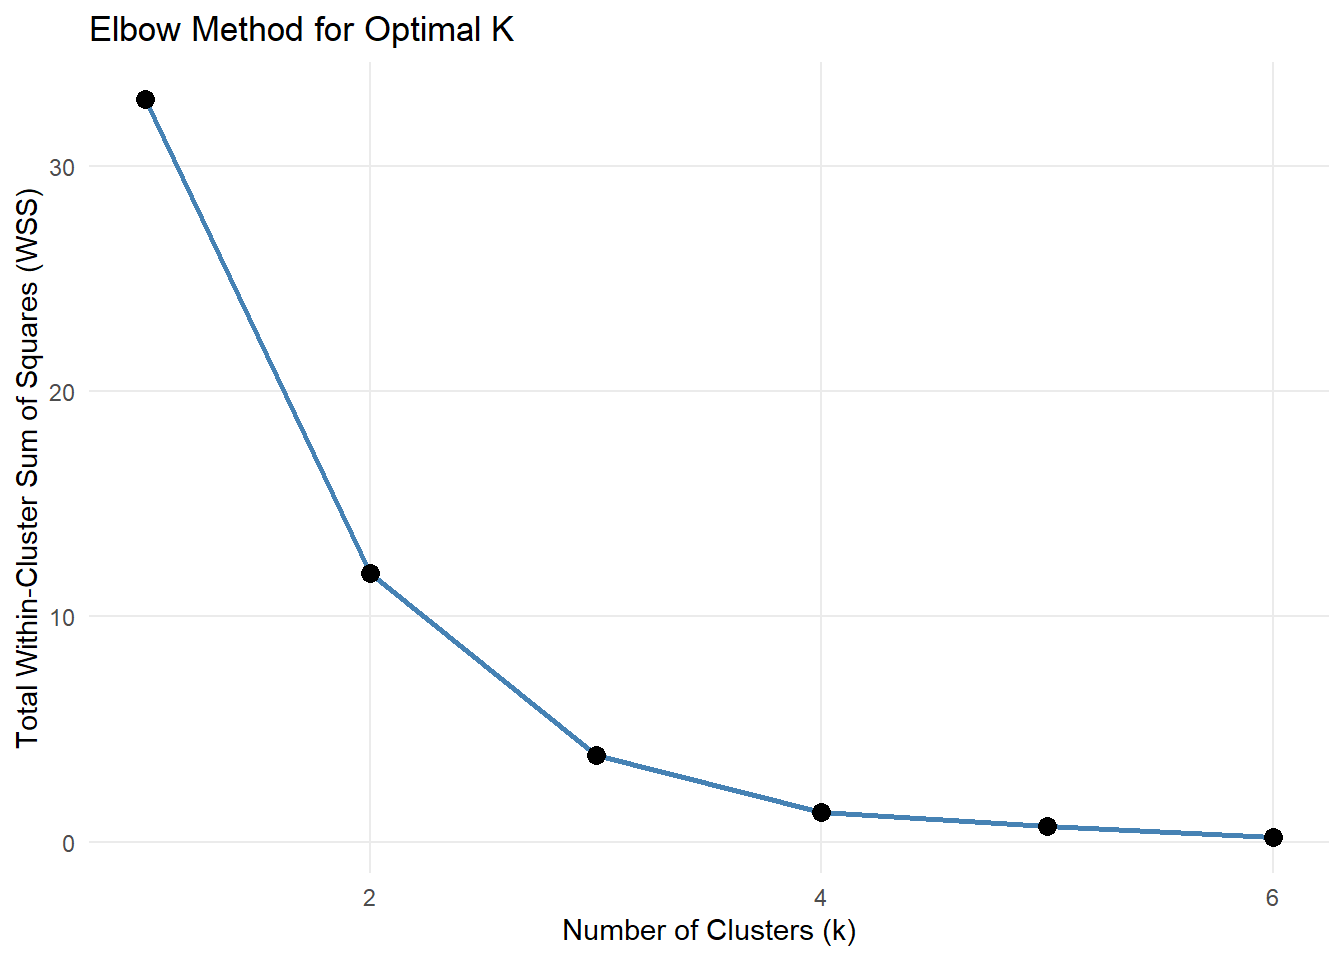
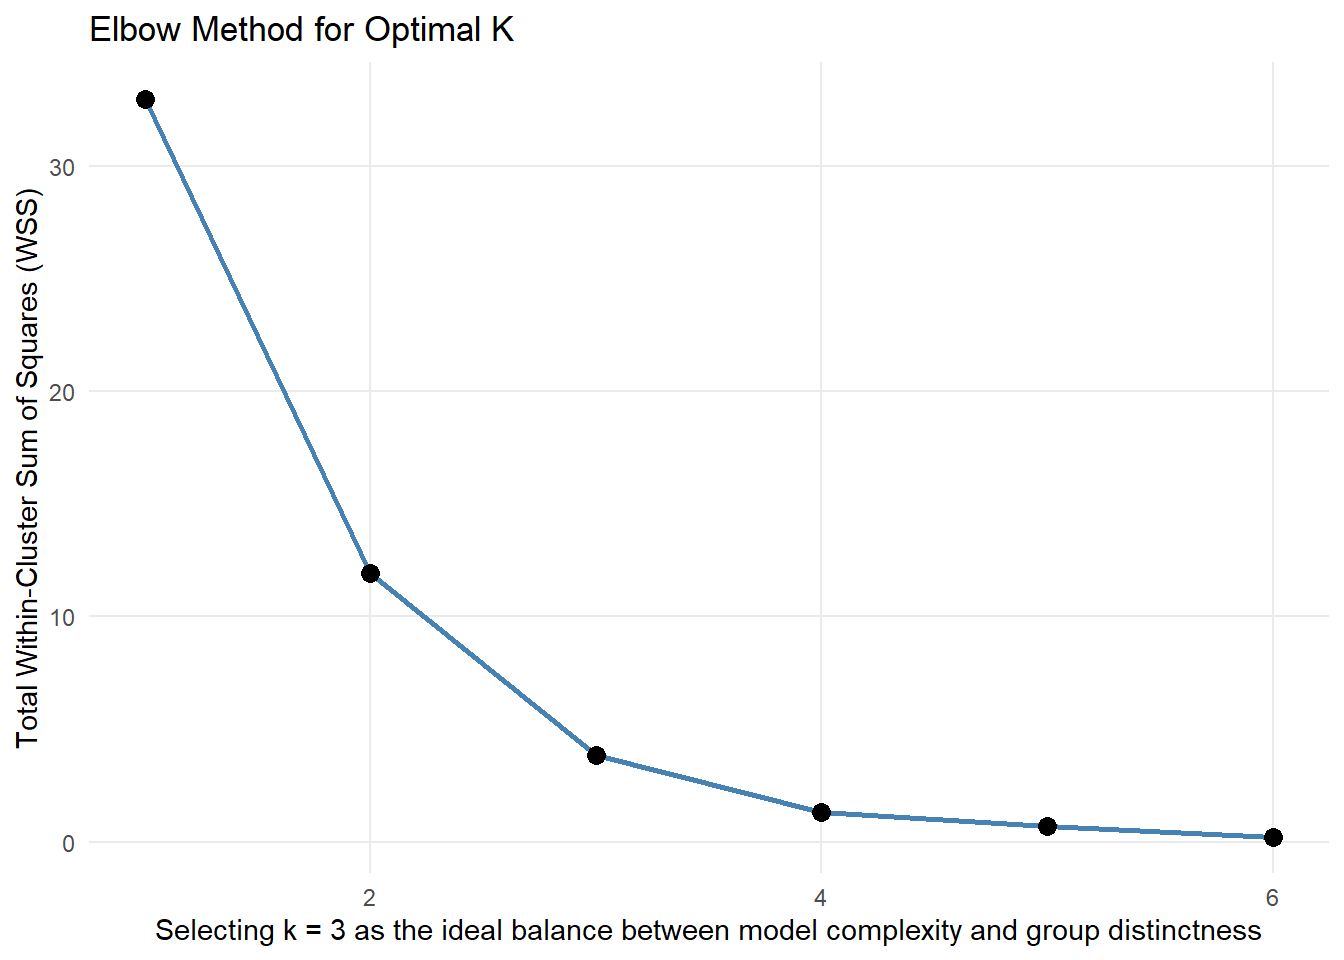
updated fig-caps

Changed region(s): [[0.25, 0.9375, 0.9375, 1.0], [0.125, 0.9375, 0.2188, 1.0]]

diff --git a/docs/index.html b/docs/index.html
@@ -568,7 +568,7 @@ The final merged dataset consists of <strong>132 observations</strong> across <s
 <span id="cb12-3"><a href="#cb12-3" aria-hidden="true" tabindex="-1"></a>  <span class="fu">mutate</span>(<span class="at">inflation =</span> inflation<span class="sc">/</span><span class="dv">100</span>) <span class="sc">|&gt;</span> </span>
 <span id="cb12-4"><a href="#cb12-4" aria-hidden="true" tabindex="-1"></a>  <span class="fu">ggplot</span>(<span class="fu">aes</span>(<span class="at">x =</span> inflation)) <span class="sc">+</span> </span>
 <span id="cb12-5"><a href="#cb12-5" aria-hidden="true" tabindex="-1"></a>  <span class="fu">geom_histogram</span>(<span class="at">binwidth =</span> <span class="fl">0.01</span>, <span class="at">fill =</span> <span class="st">"gray60"</span>, <span class="at">alpha =</span> <span class="fl">0.8</span>) <span class="sc">+</span> </span>
-<span id="cb12-6"><a href="#cb12-6" aria-hidden="true" tabindex="-1"></a>  <span class="fu">geom_vline</span>(<span class="at">xintercept =</span> <span class="fl">0.0165</span>, <span class="at">linetype =</span> <span class="st">"dashed"</span>, <span class="at">color =</span> <span class="st">"gray40"</span>) <span class="sc">+</span> </span>
+<span id="cb12-6"><a href="#cb12-6" aria-hidden="true" tabindex="-1"></a>  <span class="fu">geom_vline</span>(<span class="at">xintercept =</span> global_rate<span class="sc">/</span><span class="dv">100</span>, <span class="at">linetype =</span> <span class="st">"dashed"</span>, <span class="at">color =</span> <span class="st">"gray40"</span>) <span class="sc">+</span> </span>
 <span id="cb12-7"><a href="#cb12-7" aria-hidden="true" tabindex="-1"></a>  <span class="fu">annotate</span>(</span>
 <span id="cb12-8"><a href="#cb12-8" aria-hidden="true" tabindex="-1"></a>    <span class="st">"text"</span>, </span>
 <span id="cb12-9"><a href="#cb12-9" aria-hidden="true" tabindex="-1"></a>    <span class="at">x =</span> <span class="dv">0</span>, </span>
@@ -584,17 +584,18 @@ The final merged dataset consists of <strong>132 observations</strong> across <s
 <span id="cb12-19"><a href="#cb12-19" aria-hidden="true" tabindex="-1"></a>  ) <span class="sc">+</span></span>
 <span id="cb12-20"><a href="#cb12-20" aria-hidden="true" tabindex="-1"></a>  <span class="fu">labs</span>(</span>
 <span id="cb12-21"><a href="#cb12-21" aria-hidden="true" tabindex="-1"></a>    <span class="at">title =</span> <span class="st">"Distribution of Annual Inflation Rates"</span>,</span>
-<span id="cb12-22"><a href="#cb12-22" aria-hidden="true" tabindex="-1"></a>    <span class="at">x =</span> <span class="st">"Inflation Percentage"</span>,</span>
-<span id="cb12-23"><a href="#cb12-23" aria-hidden="true" tabindex="-1"></a>    <span class="at">y =</span> <span class="st">"Frequency"</span></span>
-<span id="cb12-24"><a href="#cb12-24" aria-hidden="true" tabindex="-1"></a>  )<span class="sc">+</span></span>
-<span id="cb12-25"><a href="#cb12-25" aria-hidden="true" tabindex="-1"></a>  <span class="fu">theme_minimal</span>() <span class="sc">+</span></span>
-<span id="cb12-26"><a href="#cb12-26" aria-hidden="true" tabindex="-1"></a>  <span class="fu">theme</span>(<span class="at">panel.grid.minor =</span> <span class="fu">element_blank</span>()) </span></code></pre></div><button title="Copy to Clipboard" class="code-copy-button"><i class="bi"></i></button></div>
+<span id="cb12-22"><a href="#cb12-22" aria-hidden="true" tabindex="-1"></a>    <span class="at">subtitle =</span> <span class="st">"Most sectors near the 1.65% average, while extreme values indicate high-volatility events"</span>,</span>
+<span id="cb12-23"><a href="#cb12-23" aria-hidden="true" tabindex="-1"></a>    <span class="at">x =</span> <span class="st">"Inflation Percentage"</span>,</span>
+<span id="cb12-24"><a href="#cb12-24" aria-hidden="true" tabindex="-1"></a>    <span class="at">y =</span> <span class="st">"Frequency"</span></span>
+<span id="cb12-25"><a href="#cb12-25" aria-hidden="true" tabindex="-1"></a>  )<span class="sc">+</span></span>
+<span id="cb12-26"><a href="#cb12-26" aria-hidden="true" tabindex="-1"></a>  <span class="fu">theme_minimal</span>() <span class="sc">+</span></span>
+<span id="cb12-27"><a href="#cb12-27" aria-hidden="true" tabindex="-1"></a>  <span class="fu">theme</span>(<span class="at">panel.grid.minor =</span> <span class="fu">element_blank</span>()) </span></code></pre></div><button title="Copy to Clipboard" class="code-copy-button"><i class="bi"></i></button></div>
 </details>
 <div class="cell-output-display">
 <div class="quarto-figure quarto-figure-center">
 <figure class="figure">
 <p><img src="index_files/figure-html/histogram-1.png" class="img-fluid figure-img" width="672"></p>
-<figcaption>Figure 1. Annual Inflation Percentage Dispersion</figcaption>
+<figcaption>Figure 1. Histogram of Inflation Rate Dispersion (2011-2021).</figcaption>
 </figure>
 </div>
 </div>
@@ -769,8 +770,8 @@ The final merged dataset consists of <strong>132 observations</strong> across <s
 <span id="cb14-18"><a href="#cb14-18" aria-hidden="true" tabindex="-1"></a>  ) <span class="sc">+</span></span>
 <span id="cb14-19"><a href="#cb14-19" aria-hidden="true" tabindex="-1"></a>  <span class="fu">scale_x_continuous</span>(<span class="at">breaks =</span> <span class="fu">seq</span>(<span class="dv">2011</span>, <span class="dv">2021</span>, <span class="dv">2</span>)) <span class="sc">+</span></span>
 <span id="cb14-20"><a href="#cb14-20" aria-hidden="true" tabindex="-1"></a>  <span class="fu">labs</span>(</span>
-<span id="cb14-21"><a href="#cb14-21" aria-hidden="true" tabindex="-1"></a>    <span class="at">title =</span> <span class="st">"Annual Inflation Rates of Select CPI Divisions"</span>,</span>
-<span id="cb14-22"><a href="#cb14-22" aria-hidden="true" tabindex="-1"></a>    <span class="at">subtitle =</span> <span class="st">"From 2011 to 2021"</span>,</span>
+<span id="cb14-21"><a href="#cb14-21" aria-hidden="true" tabindex="-1"></a>    <span class="at">title =</span> <span class="st">"Macroeconomic Trends across selected Sectors"</span>,</span>
+<span id="cb14-22"><a href="#cb14-22" aria-hidden="true" tabindex="-1"></a>    <span class="at">subtitle =</span> <span class="st">"Education maintains a steady decline, Transport exhibits severe fluctuations"</span>,</span>
 <span id="cb14-23"><a href="#cb14-23" aria-hidden="true" tabindex="-1"></a>    <span class="at">x =</span> <span class="st">"Year"</span>,</span>
 <span id="cb14-24"><a href="#cb14-24" aria-hidden="true" tabindex="-1"></a>    <span class="at">y =</span> <span class="st">"Annual Inflation Rate"</span>,</span>
 <span id="cb14-25"><a href="#cb14-25" aria-hidden="true" tabindex="-1"></a>    <span class="at">color =</span> <span class="st">"CPI Division"</span>,</span>
@@ -798,7 +799,7 @@ The final merged dataset consists of <strong>132 observations</strong> across <s
 <div class="quarto-figure quarto-figure-center">
 <figure class="figure">
 <p><img src="index_files/figure-html/rates-evolution-1.png" class="img-fluid figure-img" width="672"></p>
-<figcaption>Figure 2. Annual Inflation Rates Evolution</figcaption>
+<figcaption>Figure 2. Comparative Evolution of Annual Inflation Ratesb (2011-2021). The dashed reference line at 0%.</figcaption>
 </figure>
 </div>
 </div>
@@ -830,8 +831,8 @@ The final merged dataset consists of <strong>132 observations</strong> across <s
 <span id="cb15-10"><a href="#cb15-10" aria-hidden="true" tabindex="-1"></a>  <span class="fu">scale_x_discrete</span>(<span class="at">labels =</span> scales<span class="sc">::</span><span class="fu">label_wrap</span>(<span class="dv">18</span>)) <span class="sc">+</span></span>
 <span id="cb15-11"><a href="#cb15-11" aria-hidden="true" tabindex="-1"></a>  <span class="fu">scale_y_continuous</span>(<span class="at">labels =</span> <span class="cn">NULL</span>, <span class="at">limits =</span> <span class="fu">c</span>(<span class="dv">0</span>, <span class="dv">8</span>)) <span class="sc">+</span></span>
 <span id="cb15-12"><a href="#cb15-12" aria-hidden="true" tabindex="-1"></a>  <span class="fu">labs</span>(</span>
-<span id="cb15-13"><a href="#cb15-13" aria-hidden="true" tabindex="-1"></a>    <span class="at">title =</span> <span class="st">"CPI Divisions with Deflation Frequency"</span>,</span>
-<span id="cb15-14"><a href="#cb15-14" aria-hidden="true" tabindex="-1"></a>    <span class="at">subtitle =</span> <span class="st">"Number of years with negative inflation (2011-2021)"</span>,</span>
+<span id="cb15-13"><a href="#cb15-13" aria-hidden="true" tabindex="-1"></a>    <span class="at">title =</span> <span class="st">"Deflationary Recurrence by Sector"</span>,</span>
+<span id="cb15-14"><a href="#cb15-14" aria-hidden="true" tabindex="-1"></a>    <span class="at">subtitle =</span> <span class="st">"Communication and Transport lead as the divisions most prone to annual price drops"</span>,</span>
 <span id="cb15-15"><a href="#cb15-15" aria-hidden="true" tabindex="-1"></a>    <span class="at">x =</span> <span class="cn">NULL</span>,</span>
 <span id="cb15-16"><a href="#cb15-16" aria-hidden="true" tabindex="-1"></a>    <span class="at">y =</span> <span class="cn">NULL</span></span>
 <span id="cb15-17"><a href="#cb15-17" aria-hidden="true" tabindex="-1"></a>  ) <span class="sc">+</span></span>
@@ -845,11 +846,13 @@ The final merged dataset consists of <strong>132 observations</strong> across <s
 <div class="cell-output-display">
 <div class="quarto-figure quarto-figure-center">
 <figure class="figure">
-<p><img src="index_files/figure-html/deflation-freq-1.png" class="img-fluid figure-img" width="672"></p>
-<figcaption>Figure 3. Deflation Frequency</figcaption>
+<p><img src="index_files/figure-html/deflation-freq-1-1.png" class="img-fluid figure-img" width="672"></p>
+<figcaption>Figure 3. Frequency of Deflationary Events by CPI Division (2011-2021). The counts represent the total years each sector recorded negative annual inflation.</figcaption>
 </figure>
 </div>
 </div>
+</div>
+<div class="cell">
 <details class="code-fold">
 <summary>Code</summary>
 <div class="code-copy-outer-scaffold"><div class="sourceCode cell-code" id="cb16"><pre class="sourceCode r code-with-copy"><code class="sourceCode r"><span id="cb16-1"><a href="#cb16-1" aria-hidden="true" tabindex="-1"></a><span class="co"># 2- summary table</span></span>
@@ -907,7 +910,6 @@ The final merged dataset consists of <strong>132 observations</strong> across <s
 </tr>
 </tbody>
 </table>
-<p>Figure 3. Deflation Frequency</p>
 </div>
 </div>
 <p><strong>Analysis:</strong></p>
@@ -1179,7 +1181,7 @@ The final merged dataset consists of <strong>132 observations</strong> across <s
 <span id="cb19-10"><a href="#cb19-10" aria-hidden="true" tabindex="-1"></a>  <span class="fu">geom_point</span>(<span class="at">size =</span> <span class="dv">3</span>) <span class="sc">+</span></span>
 <span id="cb19-11"><a href="#cb19-11" aria-hidden="true" tabindex="-1"></a>  <span class="fu">labs</span>(</span>
 <span id="cb19-12"><a href="#cb19-12" aria-hidden="true" tabindex="-1"></a>    <span class="at">title =</span> <span class="st">"Elbow Method for Optimal K"</span>,</span>
-<span id="cb19-13"><a href="#cb19-13" aria-hidden="true" tabindex="-1"></a>    <span class="at">x =</span> <span class="st">"Number of Clusters (k)"</span>,</span>
+<span id="cb19-13"><a href="#cb19-13" aria-hidden="true" tabindex="-1"></a>    <span class="at">x =</span> <span class="st">"Selecting k = 3 as the ideal balance between model complexity and group distinctness"</span>,</span>
 <span id="cb19-14"><a href="#cb19-14" aria-hidden="true" tabindex="-1"></a>    <span class="at">y =</span> <span class="st">"Total Within-Cluster Sum of Squares (WSS)"</span></span>
 <span id="cb19-15"><a href="#cb19-15" aria-hidden="true" tabindex="-1"></a>  ) <span class="sc">+</span></span>
 <span id="cb19-16"><a href="#cb19-16" aria-hidden="true" tabindex="-1"></a>  <span class="fu">theme_minimal</span>()<span class="sc">+</span></span>
@@ -1189,7 +1191,7 @@ The final merged dataset consists of <strong>132 observations</strong> across <s
 <div class="quarto-figure quarto-figure-center">
 <figure class="figure">
 <p><img src="index_files/figure-html/elbow-method-1.png" class="img-fluid figure-img" width="672"></p>
-<figcaption>Figure 4. Elbow Method for Optimal K</figcaption>
+<figcaption>Figure 4. Elbow Method analysis to determine optimal cluster size. The Total Within-Cluster Sum of Squares (WSS) measures group compactness, identifying the inflection point where additional clusters provide diminishing returns in variance reduction.</figcaption>
 </figure>
 </div>
 </div>
@@ -1310,8 +1312,8 @@ The final merged dataset consists of <strong>132 observations</strong> across <s
 <span id="cb21-15"><a href="#cb21-15" aria-hidden="true" tabindex="-1"></a>  ) <span class="sc">+</span></span>
 <span id="cb21-16"><a href="#cb21-16" aria-hidden="true" tabindex="-1"></a>  <span class="fu">scale_y_continuous</span>(<span class="at">limits =</span> <span class="fu">c</span>(<span class="dv">0</span>, <span class="dv">8</span>)) <span class="sc">+</span></span>
 <span id="cb21-17"><a href="#cb21-17" aria-hidden="true" tabindex="-1"></a>  <span class="fu">labs</span>(</span>
-<span id="cb21-18"><a href="#cb21-18" aria-hidden="true" tabindex="-1"></a>    <span class="at">title =</span> <span class="st">"Macroeconomic Risk Clustering"</span>,</span>
-<span id="cb21-19"><a href="#cb21-19" aria-hidden="true" tabindex="-1"></a>    <span class="at">subtitle =</span> <span class="st">"Grouping CPI Divisions by Stability and Price Trends"</span>,</span>
+<span id="cb21-18"><a href="#cb21-18" aria-hidden="true" tabindex="-1"></a>    <span class="at">title =</span> <span class="st">"Policy-Driven Risk Segmentation"</span>,</span>
+<span id="cb21-19"><a href="#cb21-19" aria-hidden="true" tabindex="-1"></a>    <span class="at">subtitle =</span> <span class="st">"Strategic grouping identifies Transport as a systemic outlier and isolates structural deflation in competitive sectors"</span>,</span>
 <span id="cb21-20"><a href="#cb21-20" aria-hidden="true" tabindex="-1"></a>    <span class="at">x =</span> <span class="st">"Average Annual Inflation (%)"</span>,</span>
 <span id="cb21-21"><a href="#cb21-21" aria-hidden="true" tabindex="-1"></a>    <span class="at">y =</span> <span class="st">"Volatility (Standard Deviation)"</span>,</span>
 <span id="cb21-22"><a href="#cb21-22" aria-hidden="true" tabindex="-1"></a>    <span class="at">size =</span> <span class="st">"Deflation Years"</span></span>
@@ -1326,7 +1328,7 @@ The final merged dataset consists of <strong>132 observations</strong> across <s
 <div class="quarto-figure quarto-figure-center">
 <figure class="figure">
 <p><img src="index_files/figure-html/cluster-visualization-1.png" class="img-fluid figure-img" width="864"></p>
-<figcaption>Figure 5. Economic Risk Profiles Matrix</figcaption>
+<figcaption>Figure 5. Macroeconomic Risk Matrix. This multi-dimensional analysis segments CPI divisions based on average inflation, volatility, and deflation frequency (bubble size), providing a comprehensive risk landscape for the 2011-2021 period.</figcaption>
 </figure>
 </div>
 </div>
